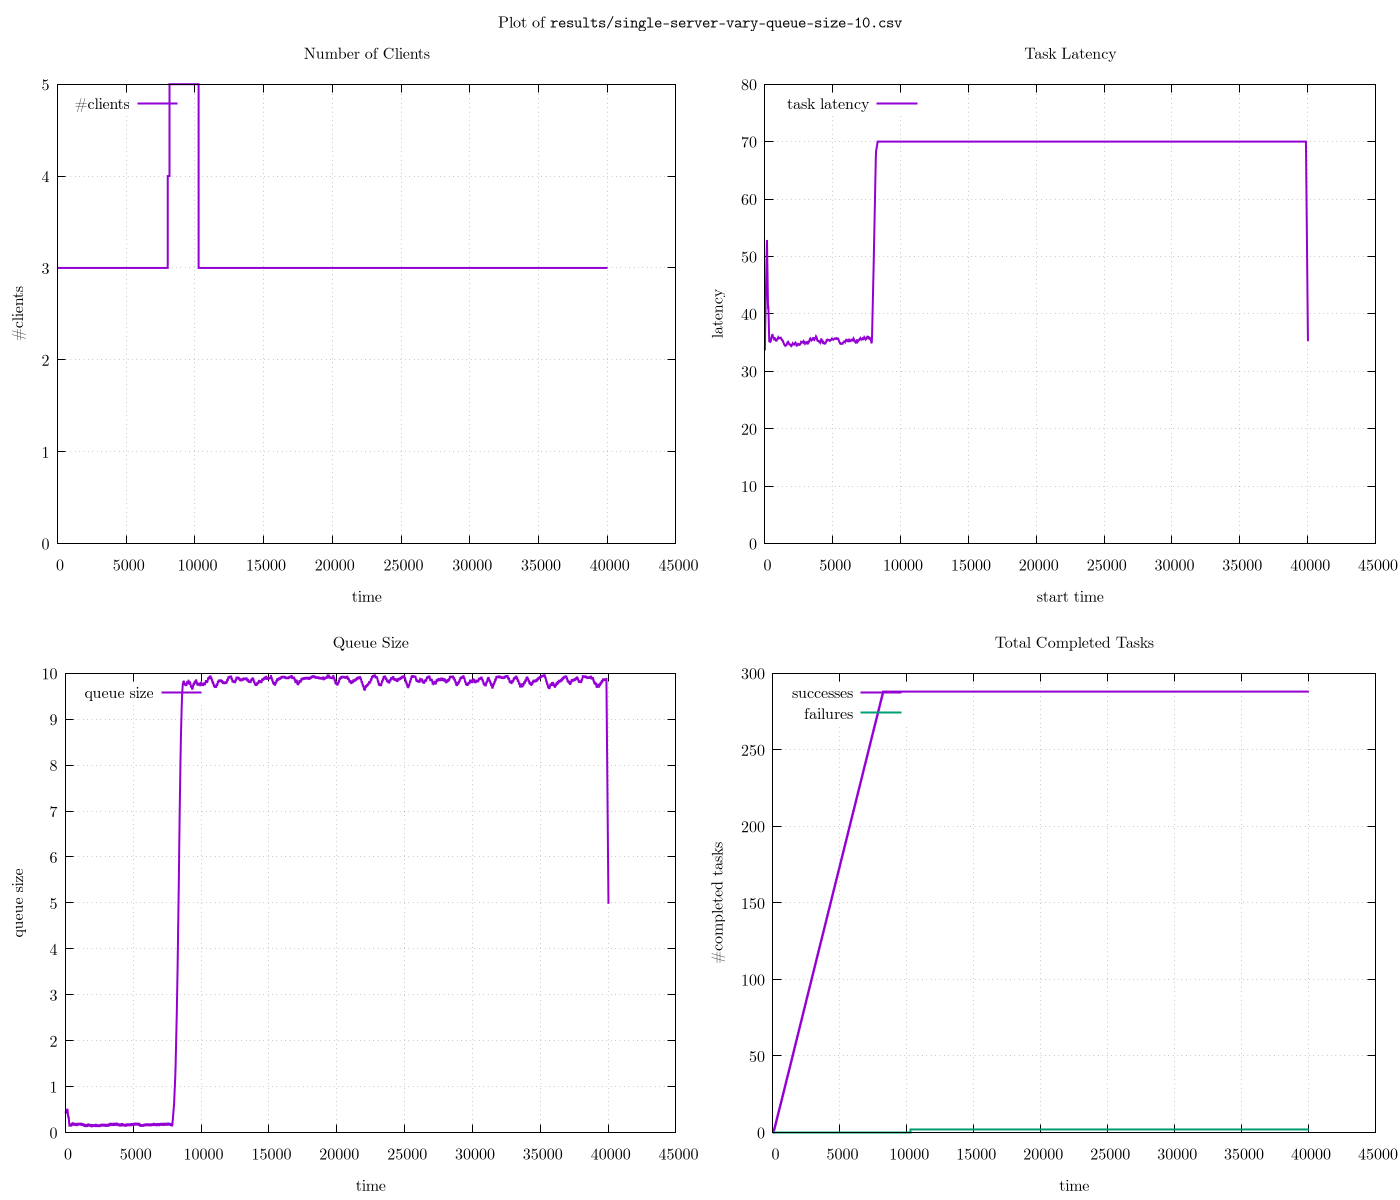
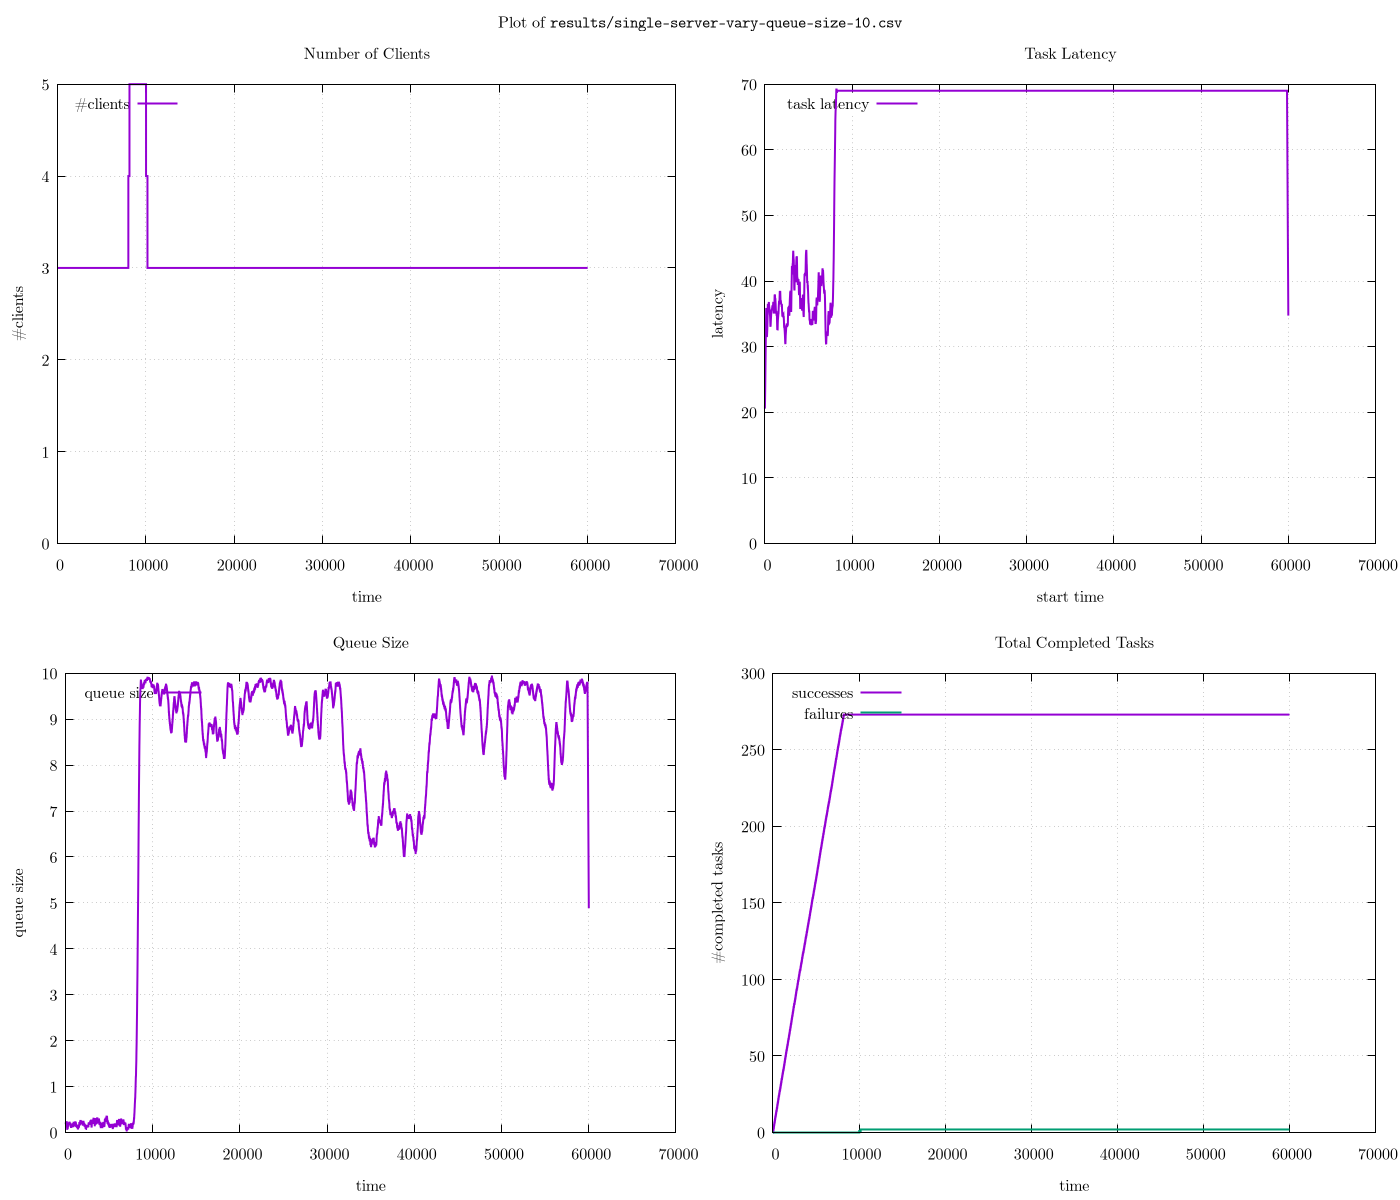
Switch to exp distribution

diff --git a/main.py b/main.py
@@ -61,15 +61,16 @@ def run_experiment(
     spike_offset: int = 10000,
     spike_duration: int = 3000,
     submit_timeout: int = 30,
-    work_time_range: tuple[int, int] = (5, 20),
-    inter_task_sleep_range: tuple[int, int] = (10, 30),
+    work_time: tuple[int, int] = (5, 2),
+    inter_task_sleep: tuple[int, int] = (10, 3),
+    added_client_wake_range: int = 300,
 ):
     def make_worker(queue: Queue[tuple[Addr, Ref]]):
         @loop
         async def start():
             addr, ref = await queue.dequeue()
             log("start task", ref=ref)
-            await sleep(rng().randrange(*work_time_range))
+            await sleep(work_time[0] + int(rng().expovariate(1.0 / work_time[1])))
             log("finish task", ref=ref)
             send(addr, ref, Ok, hint="task_finished")
 
@@ -167,28 +168,32 @@ def run_experiment(
 
     clients: list[StateMachineInit] = []
 
+    async def sleep_between_tasks():
+        await sleep(
+            inter_task_sleep[0] + int(rng().expovariate(1.0 / inter_task_sleep[1]))
+        )
+
     def make_normal_client(client_ix: int):
         @launch
         async def client():
             log("client started", client_ix=client_ix)
             while True:
                 await perform_work()
-                await sleep(rng().randrange(*inter_task_sleep_range))
+                await sleep_between_tasks()
 
         return client
 
     def make_spike_client(client_ix: int):
         @launch
         async def client():
-            await sleep(spike_offset + rng().randrange(0, 300))
+            wake_offset = rng().randrange(0, added_client_wake_range)
+            await sleep(spike_offset + wake_offset)
             log("client started", client_ix=client_ix)
             while True:
-                await perform_work(
-                    deadline=spike_offset + spike_duration + rng().randrange(0, 300)
-                )
+                await perform_work(deadline=spike_offset + spike_duration + wake_offset)
                 if now() >= spike_offset + spike_duration:
                     break
-                await sleep(rng().randrange(*inter_task_sleep_range))
+                await sleep_between_tasks()
             log("client exited", client_ix=client_ix)
             stop()
 
@@ -197,11 +202,11 @@ def run_experiment(
     def make_added_client(client_ix: int):
         @launch
         async def client():
-            await sleep(spike_offset + rng().randrange(0, 300))
+            await sleep(spike_offset + rng().randrange(0, added_client_wake_range))
             log("client started", client_ix=client_ix)
             while True:
                 await perform_work()
-                await sleep(rng().randrange(*inter_task_sleep_range))
+                await sleep_between_tasks()
 
         return client
 
@@ -387,14 +392,14 @@ def single_server_vary_queue_size(qs):
             num_workers=1,
             queue_size=qs,
             num_retries=100_000,
-            num_epochs=40_000,
+            num_epochs=60_000,
             spike_offset=8000,
             spike_duration=2000,
             num_clients=3,
             num_clients_spike=5,
             num_clients_after_spike=3,
-            work_time_range=(26, 28),
-            inter_task_sleep_range=(49, 52),
+            work_time=(22, 5),
+            inter_task_sleep=(50, 5),
             submit_timeout=83,
             retry_policy=constant_retry(wait_time=2),
         )
@@ -414,8 +419,8 @@ def multiple_servers(version: Literal["control", "test"]):
             num_clients=12,
             num_clients_spike=20,
             num_clients_after_spike=12,
-            work_time_range=(26, 28),
-            inter_task_sleep_range=(49, 52),
+            work_time=(22, 5),
+            inter_task_sleep=(50, 5),
             submit_timeout=83,
             retry_policy=constant_retry(wait_time=2),
         )
@@ -435,8 +440,8 @@ def linear_backoff(version: Literal["control", "test-linear", "test-const"]):
             num_clients=12,
             num_clients_spike=20,
             num_clients_after_spike=12,
-            work_time_range=(100, 120),
-            inter_task_sleep_range=(2, 5),
+            work_time=(100, 7),
+            inter_task_sleep=(2, 2),
             submit_timeout=12 * 110 + 70,
             retry_policy=constant_retry(0)
             if version == "test-const"

diff --git a/des/sim.py b/des/sim.py
@@ -646,7 +646,7 @@ class EventLoop:
                 break
             self.commit_logs()
 
-        return RunResult(logs=self.logs, num_epochs=self.epoch)
+        return RunResult(logs=self.logs, num_epochs=max(0, self.epoch - 1))
 
     def commit_logs(self):
         self.logs.extend(self.new_logs)
